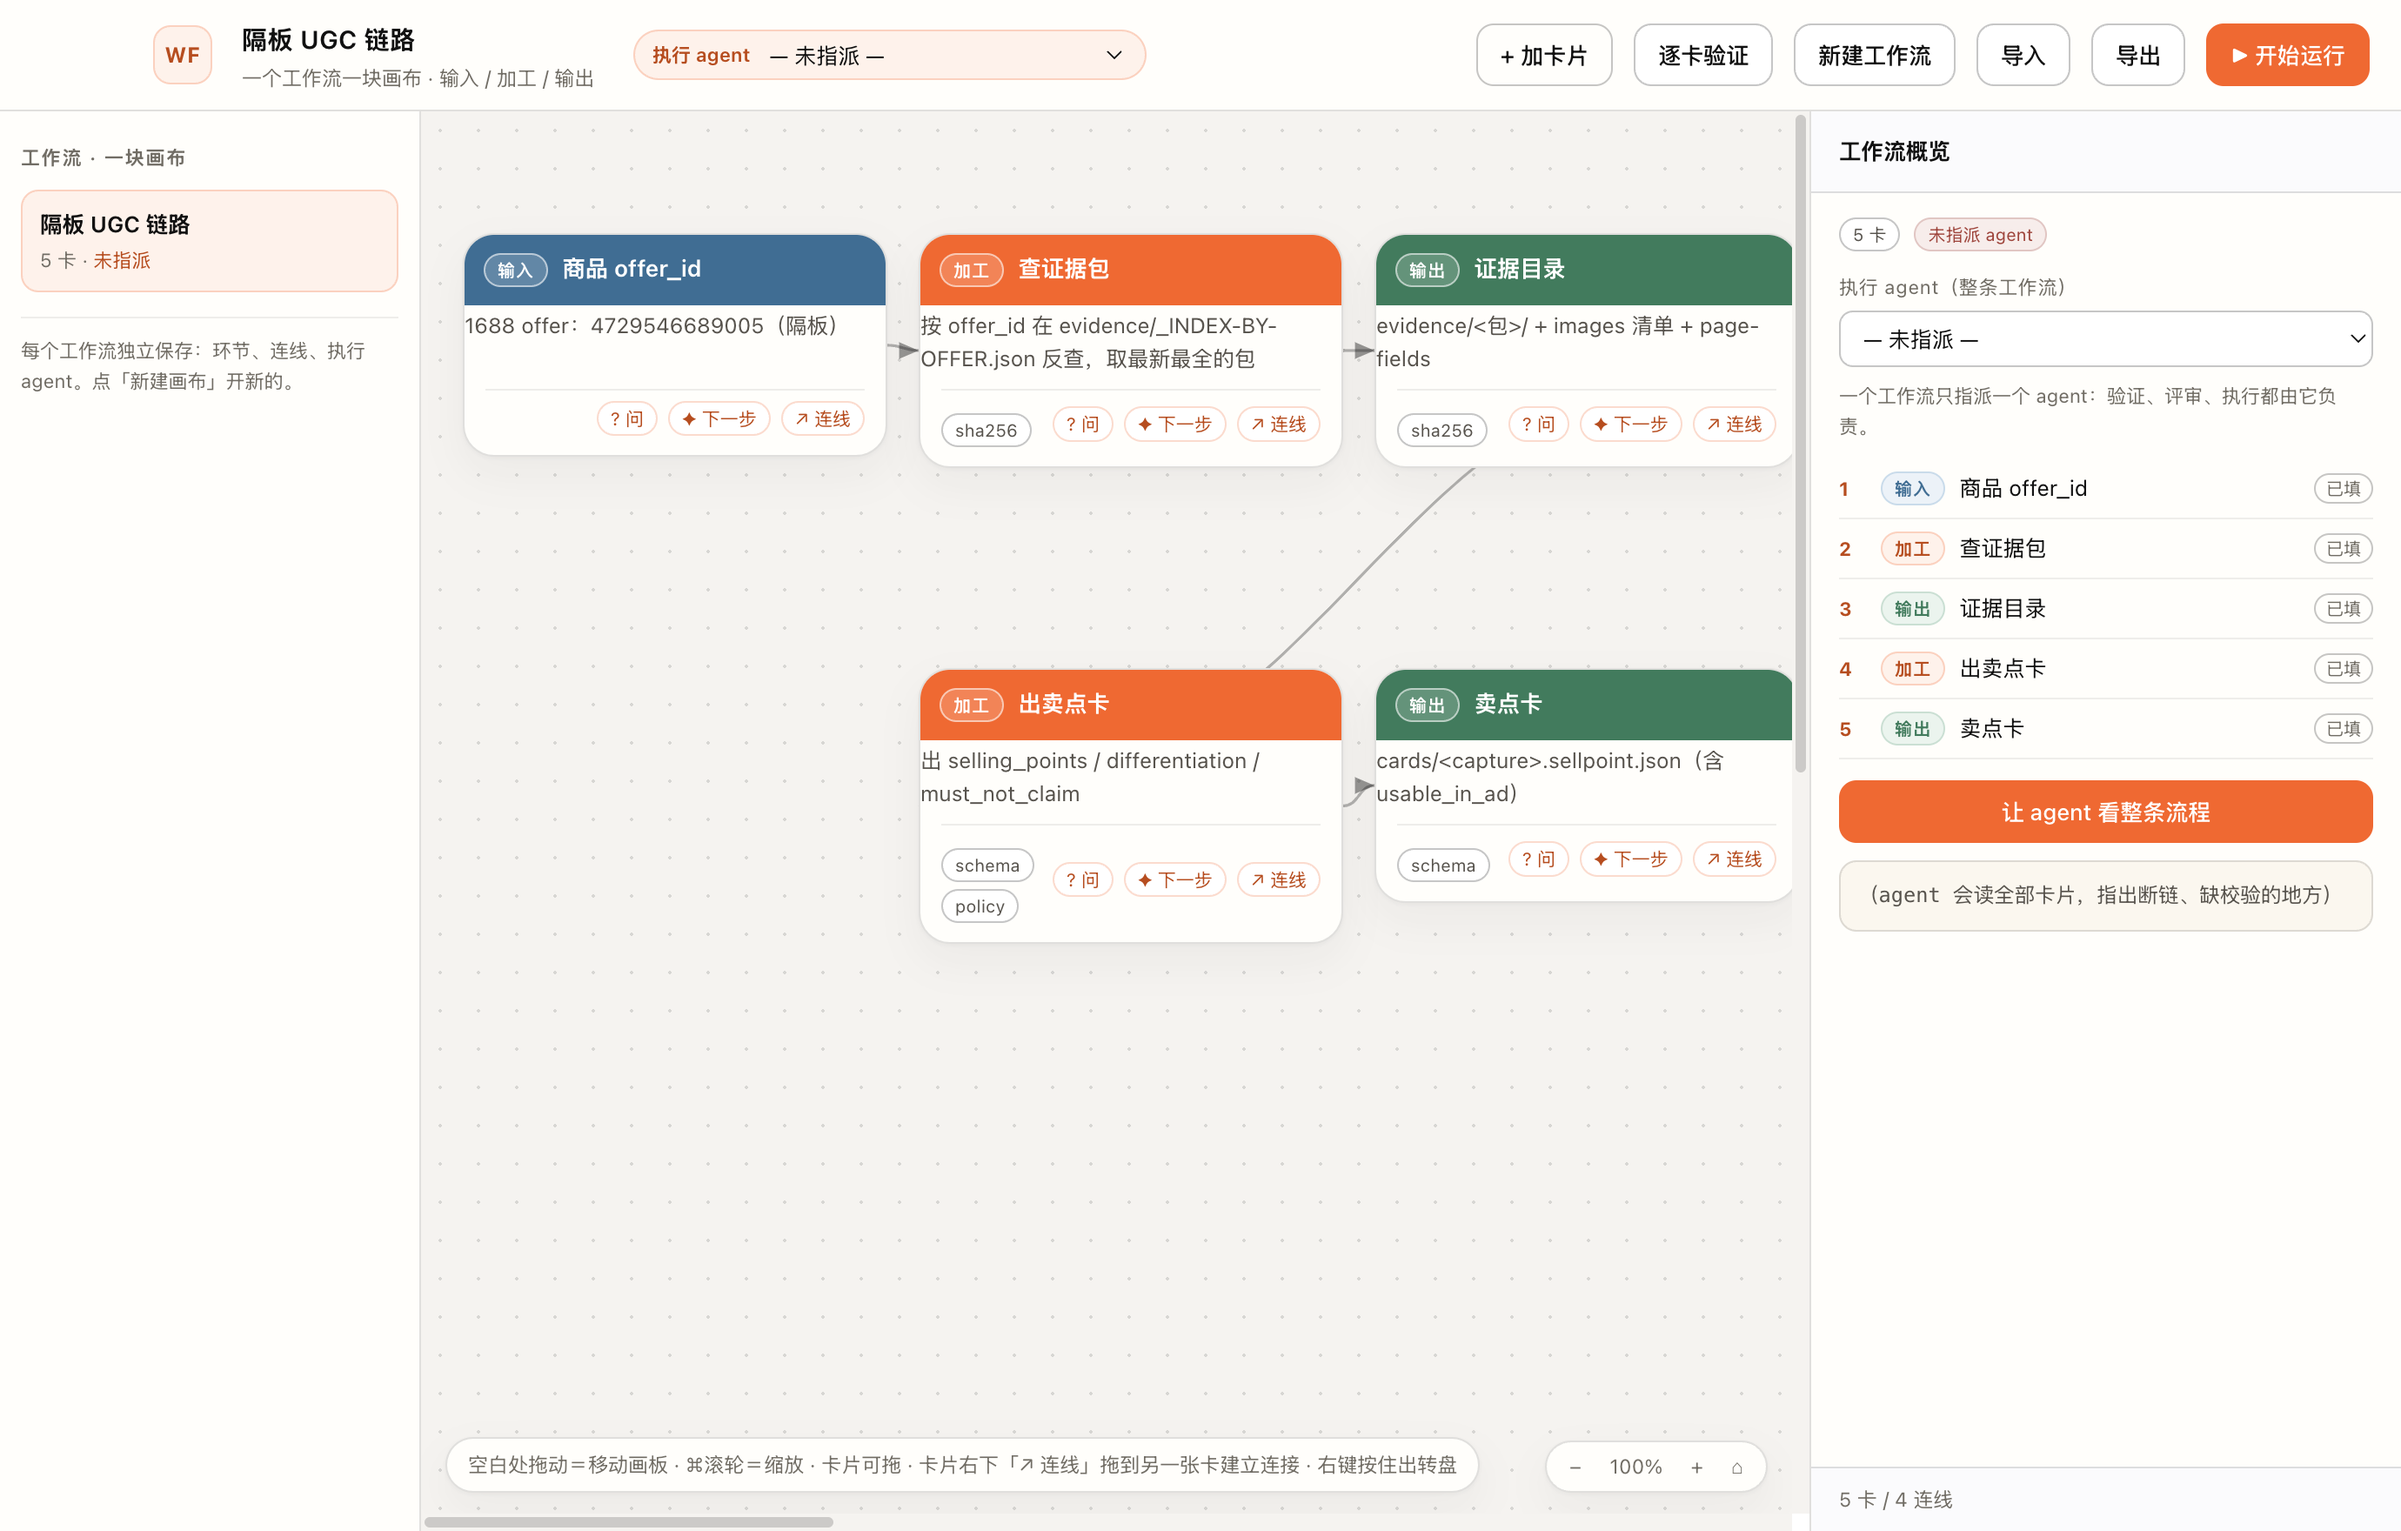
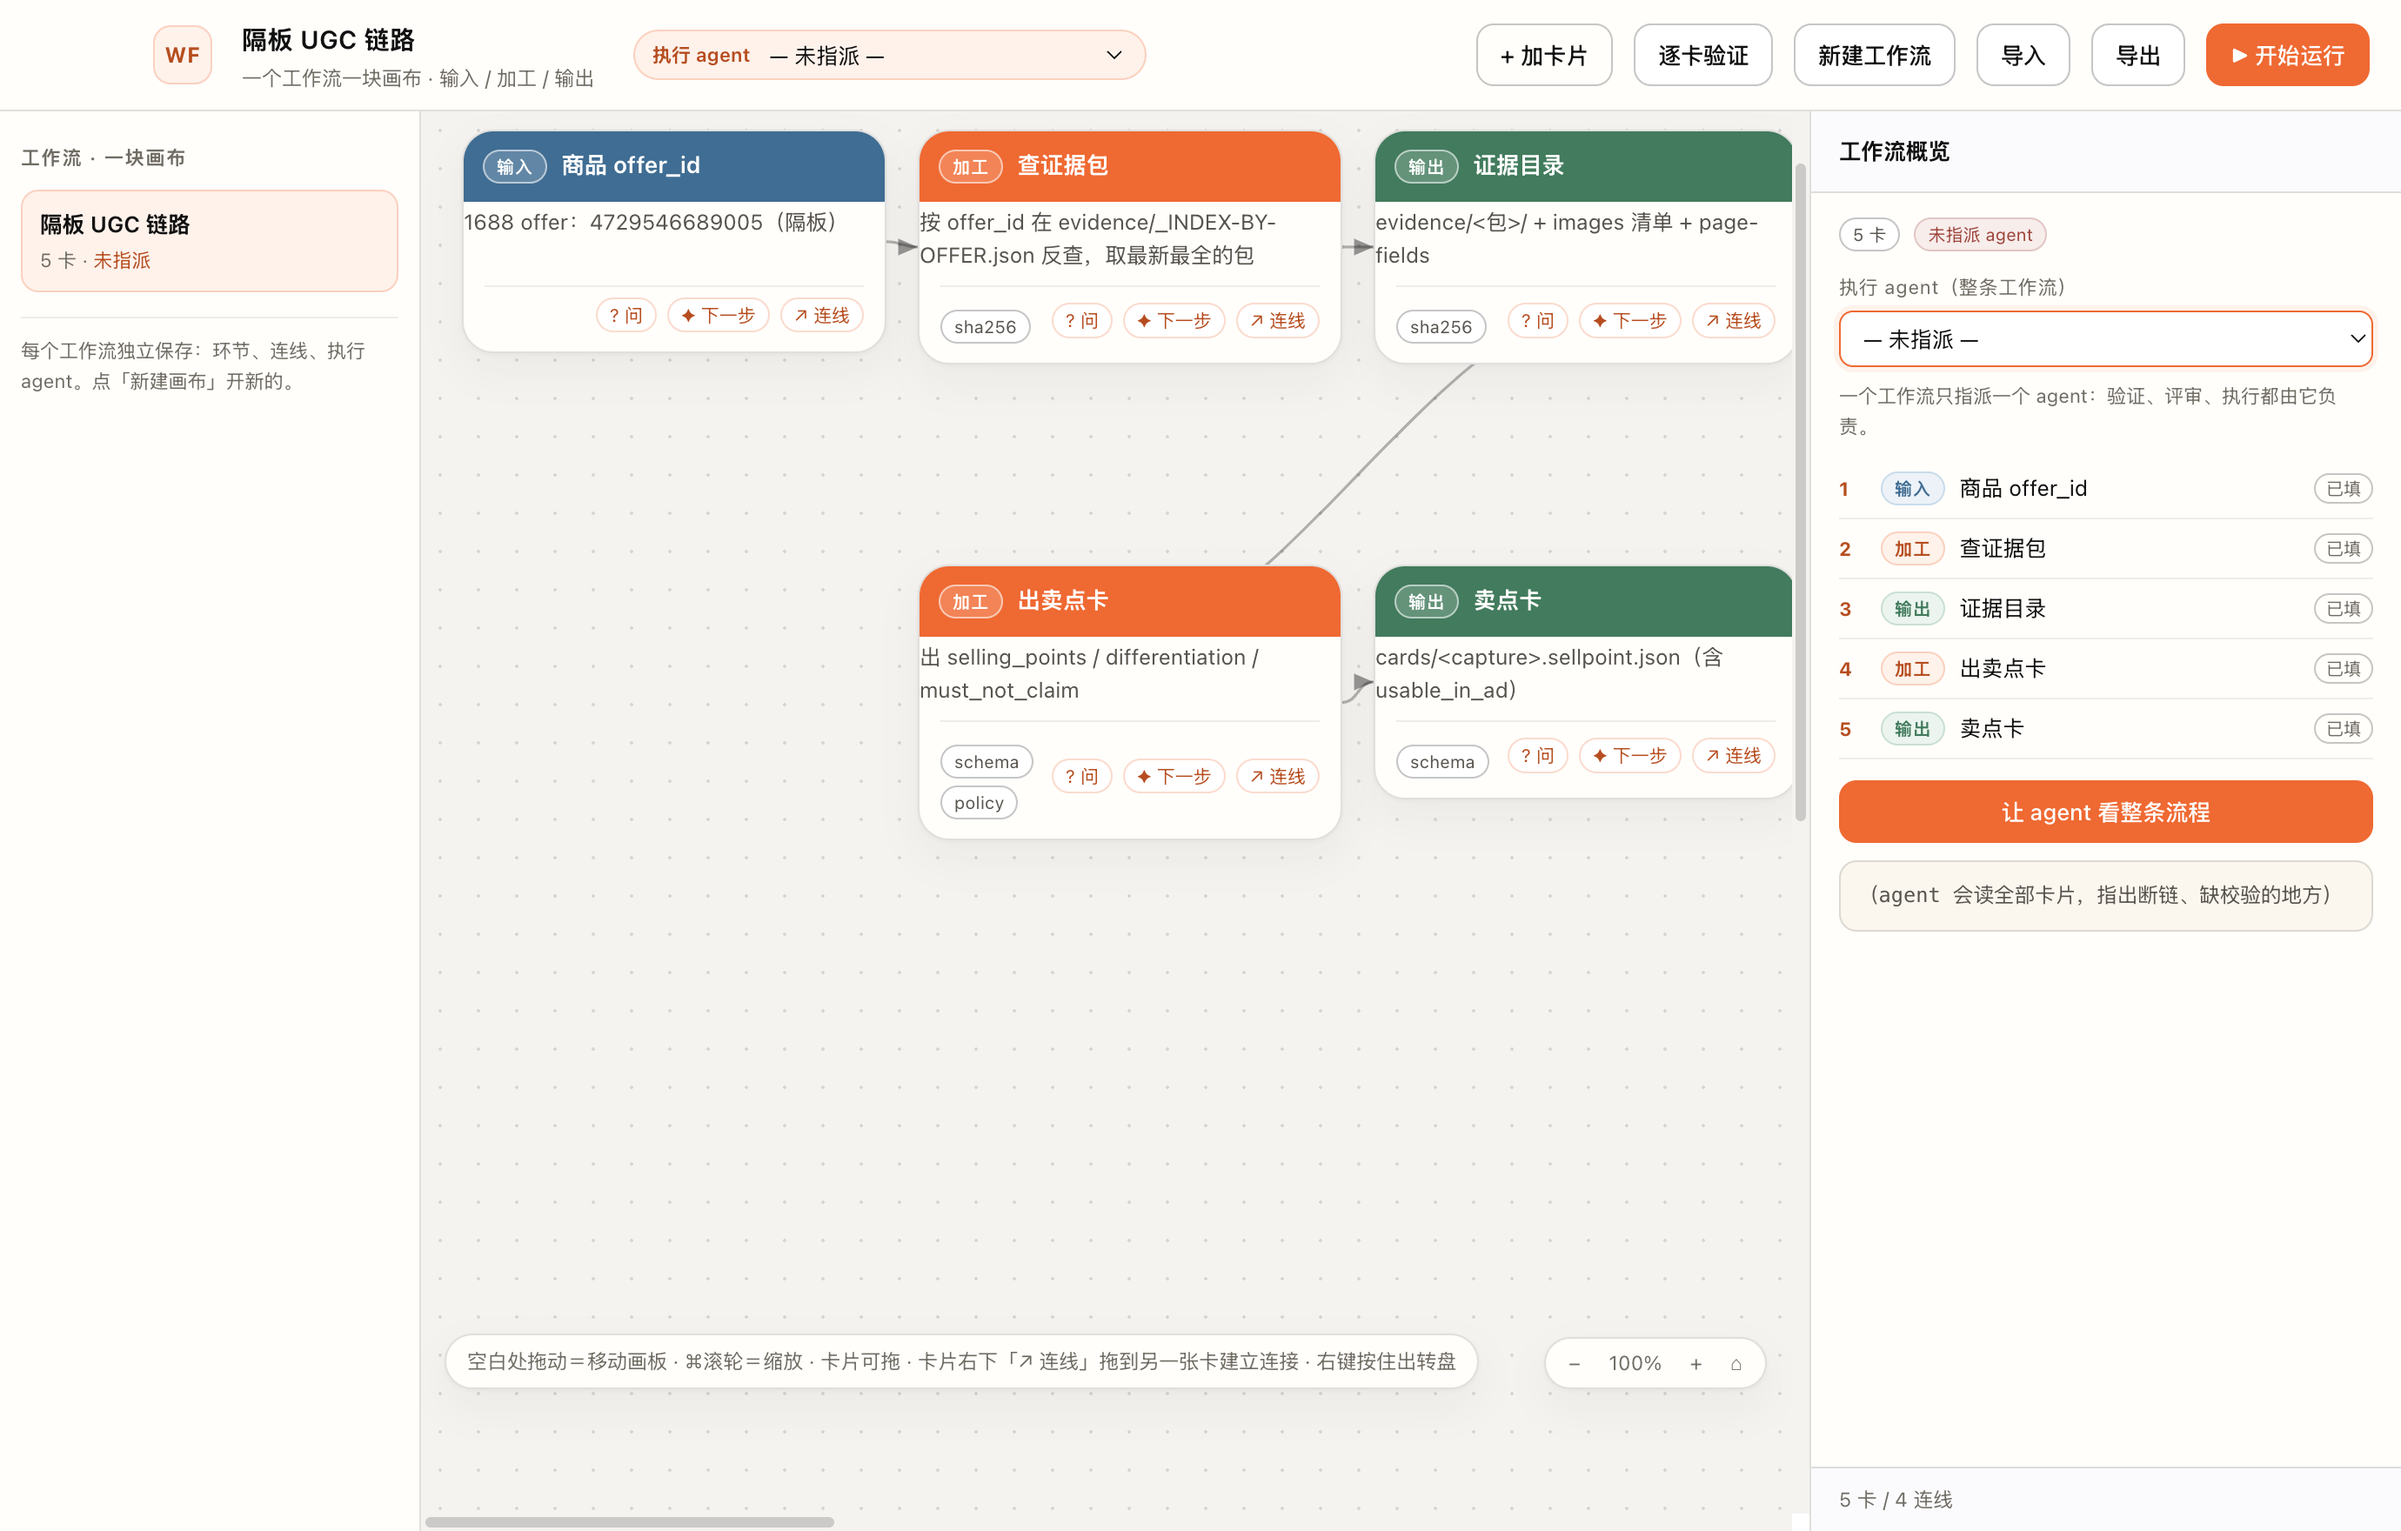
feat(agents): group agent picker by dispatch whitelist, disable retired profiles

diff --git a/renderer/app.js b/renderer/app.js
@@ -124,6 +124,21 @@ function renderWorkflowList() {
   }
 }
 function agentName(id) { const a = agents.find(x => x.id === id); return a ? a.name : id; }
+function isStopped(id) { const a = agents.find(x => x.id === id); return !a || a.stopped; }
+
+// 只列在用岗；已停用的折叠进 disabled 分组，避免误派
+function agentOptionsHTML(sel) {
+  const cur = agents.find(a => a.id === sel);
+  const act = agents.filter(a => !a.stopped || a.id === sel);
+  const stop = agents.filter(a => a.stopped && a.id !== sel);
+  let h = `<option value="">— 未指派 —</option>`;
+  h += `<optgroup label="在用（派工白名单）">` +
+    act.map(a => `<option value="${a.id}" ${a.id === sel ? 'selected' : ''}>${esc(a.name)}（${a.id}）</option>`).join('') +
+    `</optgroup>`;
+  if (stop.length) h += `<optgroup label="已停用（不在派工白名单）">` +
+    stop.map(a => `<option value="${a.id}" disabled>${esc(a.name)}（${a.id}）</option>`).join('') + `</optgroup>`;
+  return h;
+}
 
 // ---------- 卡片 ----------
 function addNode(kind, props = {}, select = true) {
@@ -152,8 +167,7 @@ function connect(aId, bId) {
 function render() {
   const w = flow(); if (!w) return;
   $('#flowName').value = w.name;
-  $('#flowAgent').innerHTML = ['<option value="">— 未指派 —</option>']
-    .concat(agents.map(a => `<option value="${a.id}" ${a.id === w.agent ? 'selected' : ''}>${a.name}（${a.id}）</option>`)).join('');
+  $('#flowAgent').innerHTML = agentOptionsHTML(w.agent);
 
   for (const el of [...canvas.querySelectorAll('.node')]) el.remove();
   for (const n of w.nodes) canvas.appendChild(nodeEl(n));
@@ -274,8 +288,7 @@ function renderPanel() {
         <span class="chip ${w.agent ? 'ok' : 'bad'}">${w.agent ? '执行方：' + esc(agentName(w.agent)) : '未指派 agent'}</span>
       </div>
       <label>执行 agent（整条工作流）</label>
-      <select id="pFlowAgent"><option value="">— 未指派 —</option>
-        ${agents.map(a => `<option value="${a.id}" ${a.id === w.agent ? 'selected' : ''}>${a.name}（${a.id}）· ${a.section || ''}</option>`).join('')}</select>
+      <select id="pFlowAgent">${agentOptionsHTML(w.agent)}</select>
       <p class="hint">一个工作流只指派一个 agent：验证、评审、执行都由它负责。</p>
       <div style="margin-top:10px">${rows}</div>
       <button id="pAskFlow" class="primary" style="width:100%;margin-top:12px">让 agent 看整条流程</button>
@@ -349,6 +362,7 @@ let pendingOpts = { fromId: null, list: [] };
 async function askOptions(n) {
   const w = flow(), out = $('#agentOut');
   if (!w.agent) { out.textContent = '先给整条工作流指派一个 agent。'; return; }
+  if (isStopped(w.agent)) { out.textContent = `「${agentName(w.agent)}」已停用、不在派工白名单，换个 agent 再问。`; return; }
   const chain = chainOrder(w).map((x, i) => `${i + 1}. [${KINDS[x.kind].label}] ${x.title}：${x.body || '(空)'}`).join('\n');
   const prompt = [
     '你在帮我编排一条工作流。只做建议，不执行、不发请求、不改文件。',
@@ -431,10 +445,7 @@ function openRunModal() {
   body.innerHTML = `
     <div class="mrow" style="grid-template-columns:1fr 260px">
       <div><b>${esc(w.name)}</b><div style="color:var(--ink-3);font-size:11.5px">${w.nodes.length} 张卡 · 执行 agent 统一指派</div></div>
-      <select id="mAgent" class="${w.agent ? '' : 'need'}">
-        <option value="">— 选 agent —</option>
-        ${agents.map(a => `<option value="${a.id}" ${a.id === w.agent ? 'selected' : ''}>${a.name}（${a.id}）</option>`).join('')}
-      </select>
+      <select id="mAgent" class="${w.agent ? '' : 'need'}">${agentOptionsHTML(w.agent)}</select>
     </div>
     ${order.map((n, i) => `<div class="mrow" style="grid-template-columns:28px 76px 1fr">
       <div class="i">${i + 1}</div>
